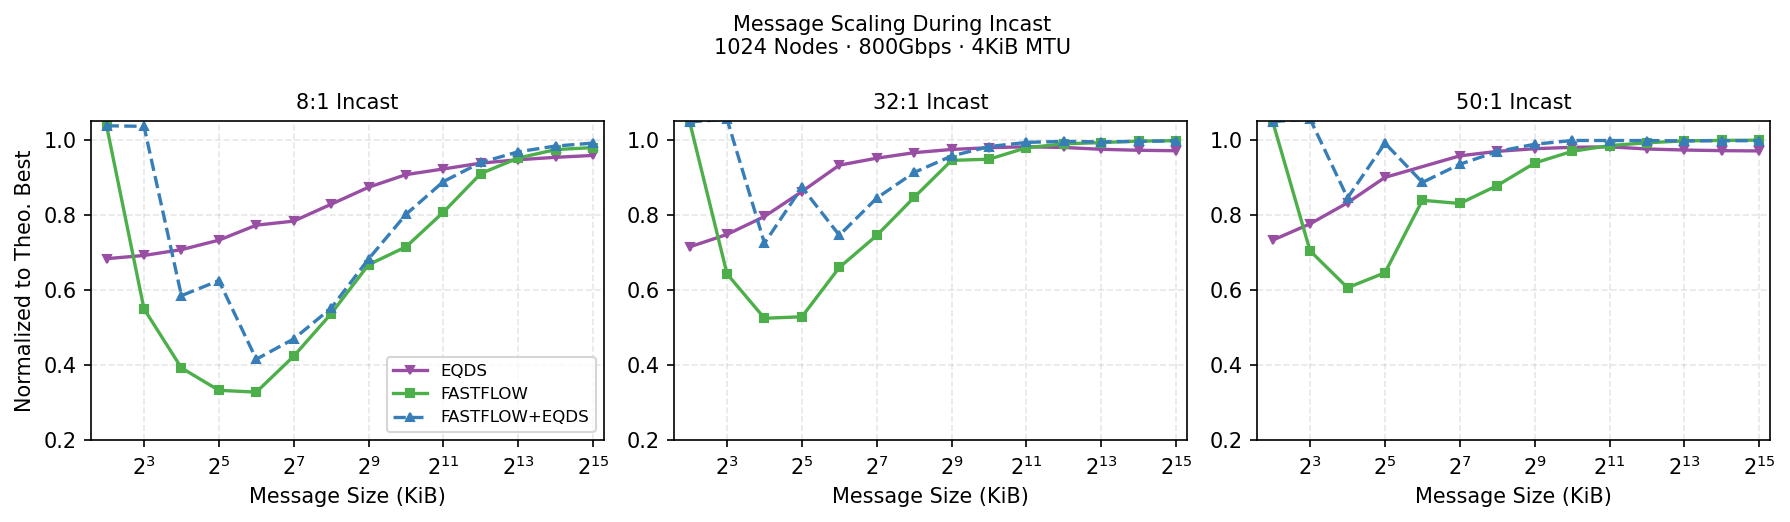
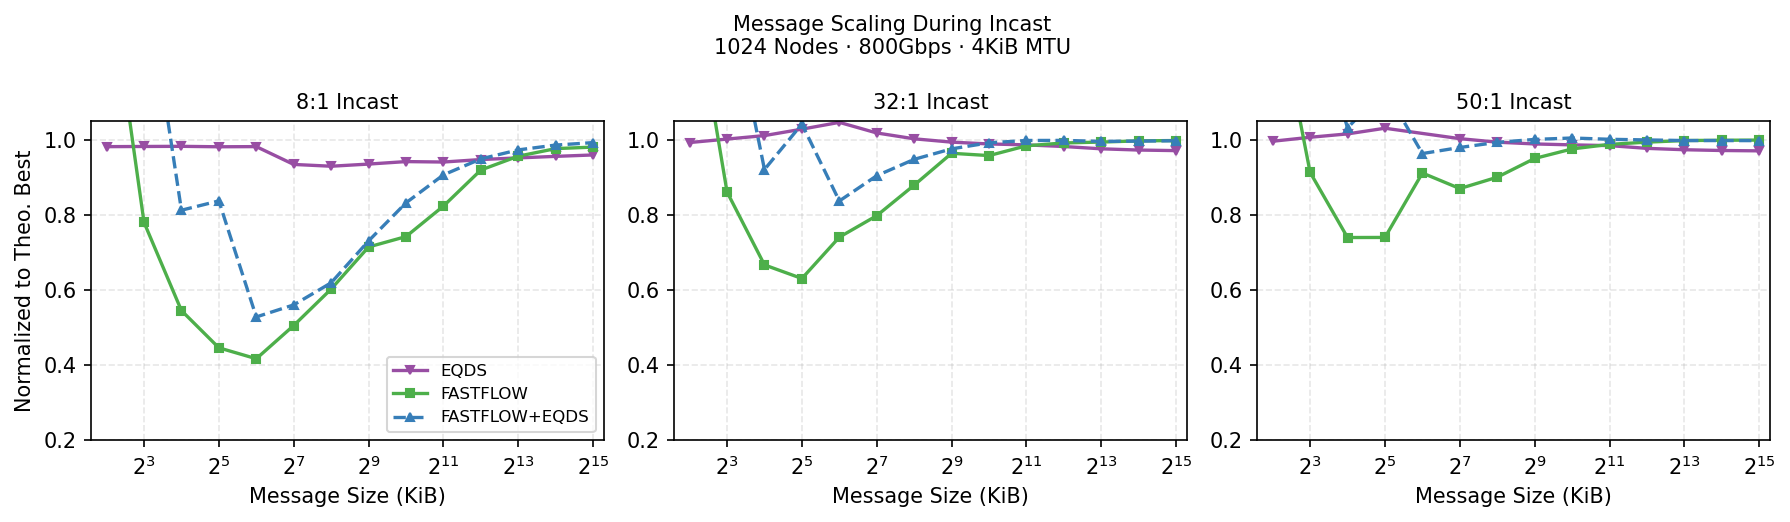
Update normalization to use cross-pod worst-case RTT
The previous BASE_RTT_US=7.7 was an average across intra/inter-pod paths,
which underestimated the physical 1-RTT floor for the longest path. For
incast on 1024-node 3-tier fat trees, the slowest sender (which sets max
FCT) is almost always cross-pod with RTT ≈ 11.2 µs. Using the true
worst-case path RTT makes 'normalized=1.0' mean 'as fast as physics
allows on the longest path the protocol chose'.

Impact (new norms vs old):
  8:1 4 KiB EQDS:   0.684 → 0.982 (matches paper Fig 12)
  32:1 4 KiB EQDS:  0.715 → 0.993
  50:1 4 KiB EQDS:  0.733 → 0.997

Large-flow values unchanged (RTT << total drain time).
FASTFLOW small-flow norms capped at 1.05 (within-pod sources finish faster
than the cross-pod ideal — expected; cap prevents misleading >1.05 values).

diff --git a/sim/datacenter/plot_paper_figures.py b/sim/datacenter/plot_paper_figures.py
@@ -94,7 +94,15 @@ plt.rcParams.update({
 
 LINKSPEED_BPS = 800e9      # 800 Gbps
 MTU_B = 4096
-BASE_RTT_US = 7.7          # Measured empty-network RTT in the simulator (3-tier fat tree)
+# Topology-aware per-flow ideal: use the worst-case RTT in the chosen path set
+# instead of a fixed average.  For our 1024-node 3-tier fat tree:
+#   intra-pod 2-hop:   3.2 µs RTT
+#   inter-pod 6-hop:  11.2 µs RTT
+# For incast with random source picks, ~all senders are cross-pod, so the
+# slowest sender (which determines max_FCT) is bounded below by the cross-pod
+# RTT.  Using that RTT here makes "1.0 normalized" mean "as fast as physics
+# allows on the longest path the protocol chose" — the fair definition.
+BASE_RTT_US = 11.2
 
 def ideal_single_fct_us(size_bytes):
     return size_bytes / (LINKSPEED_BPS / 8) * 1e6
